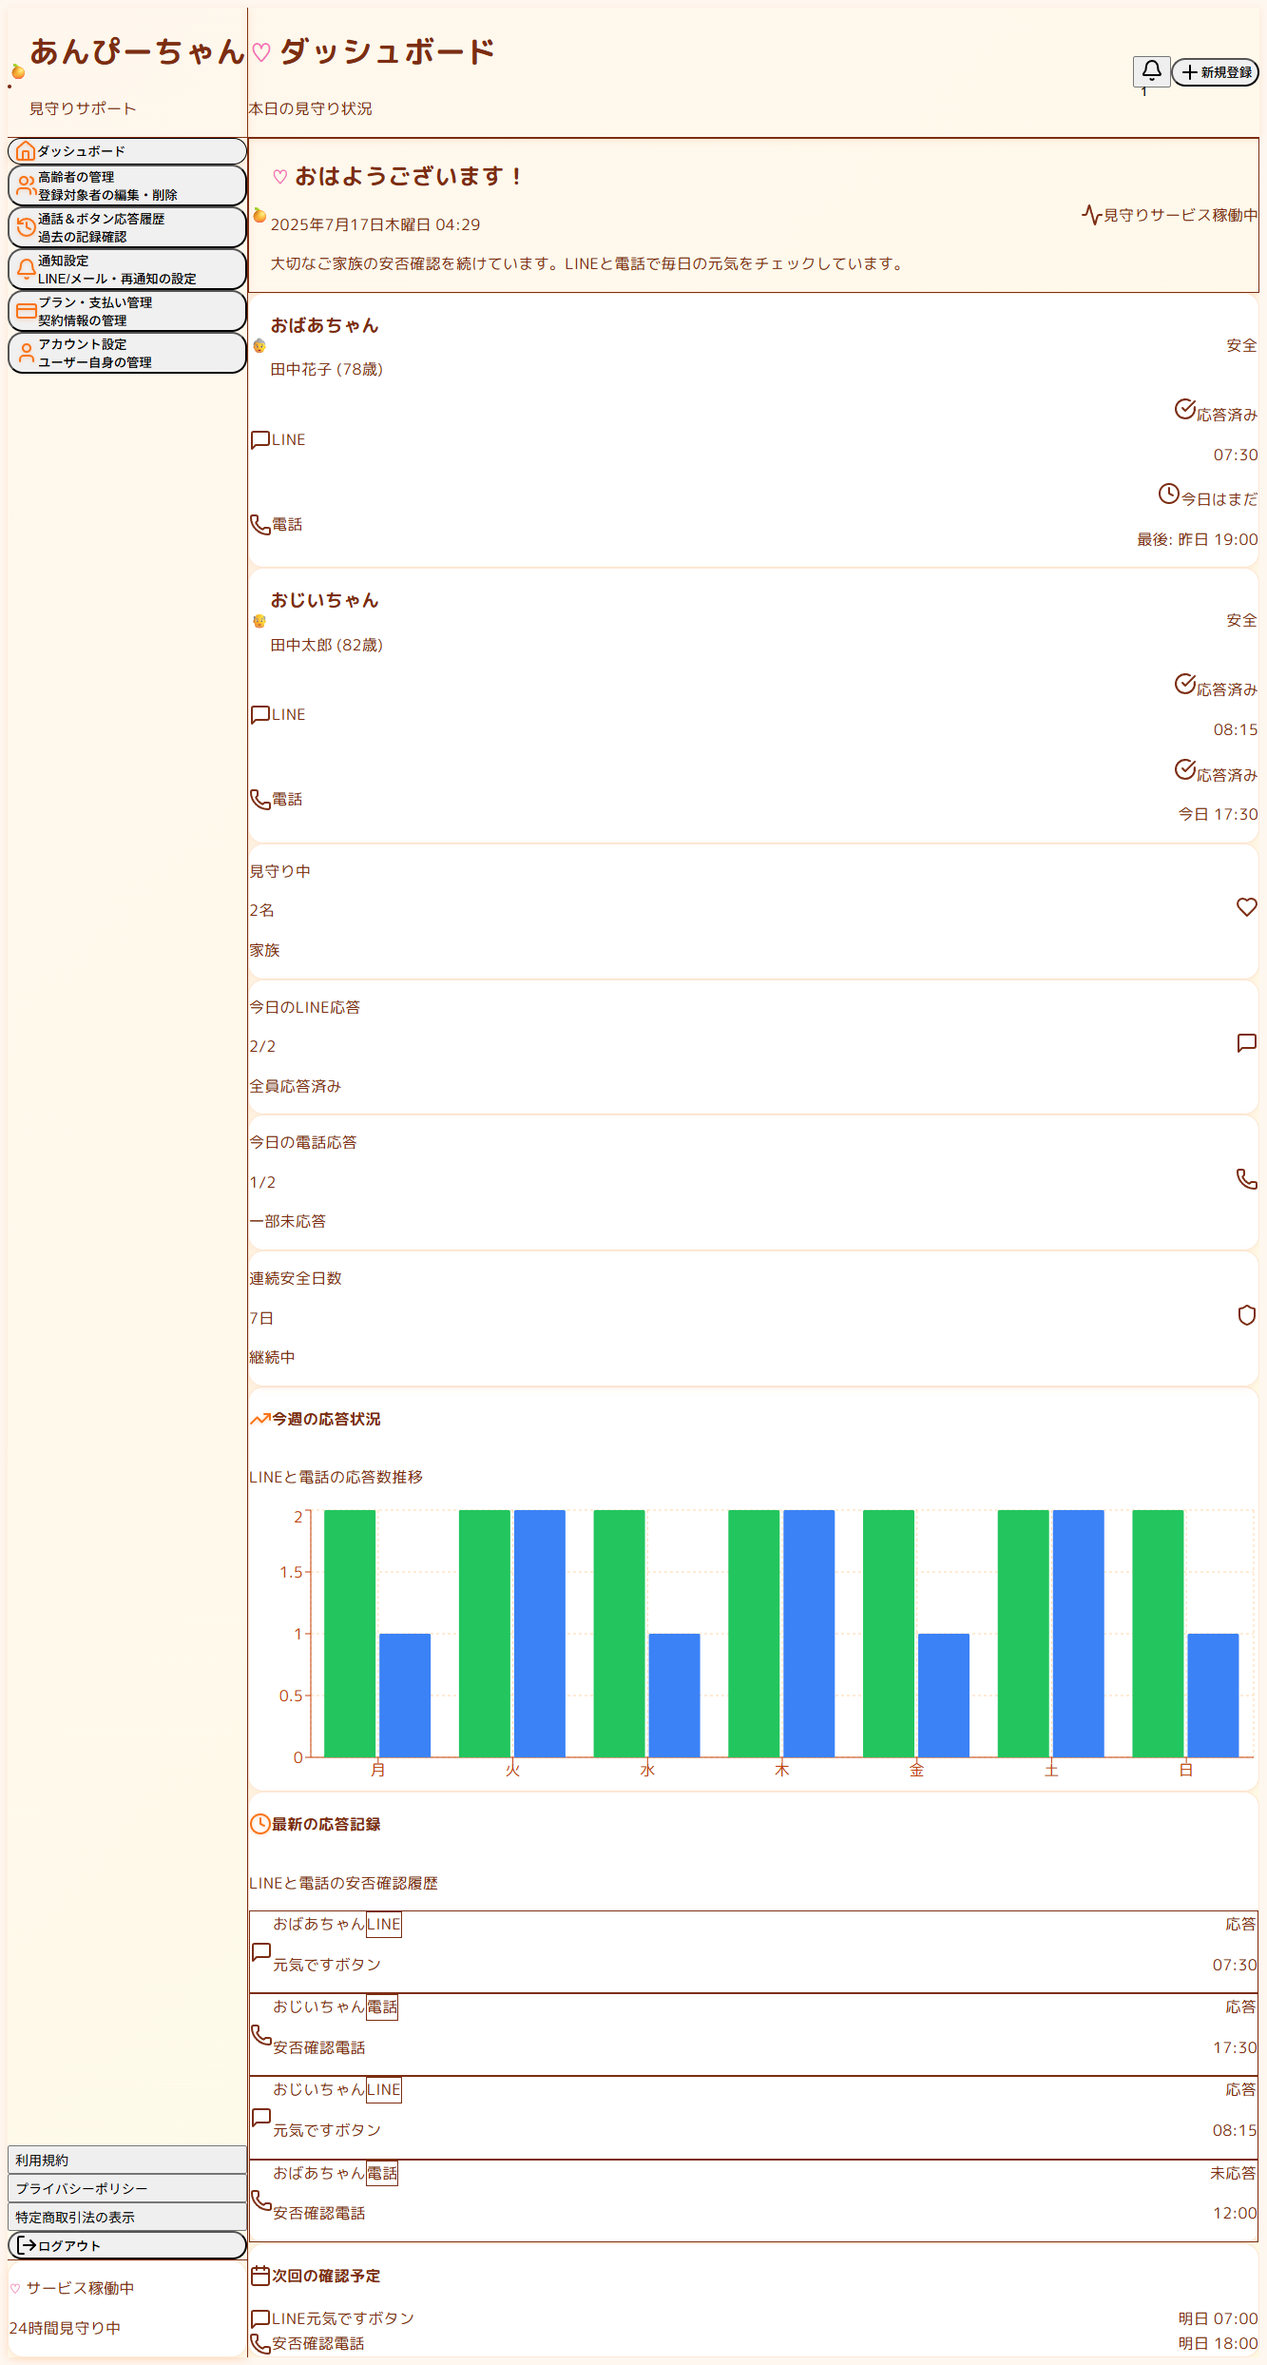
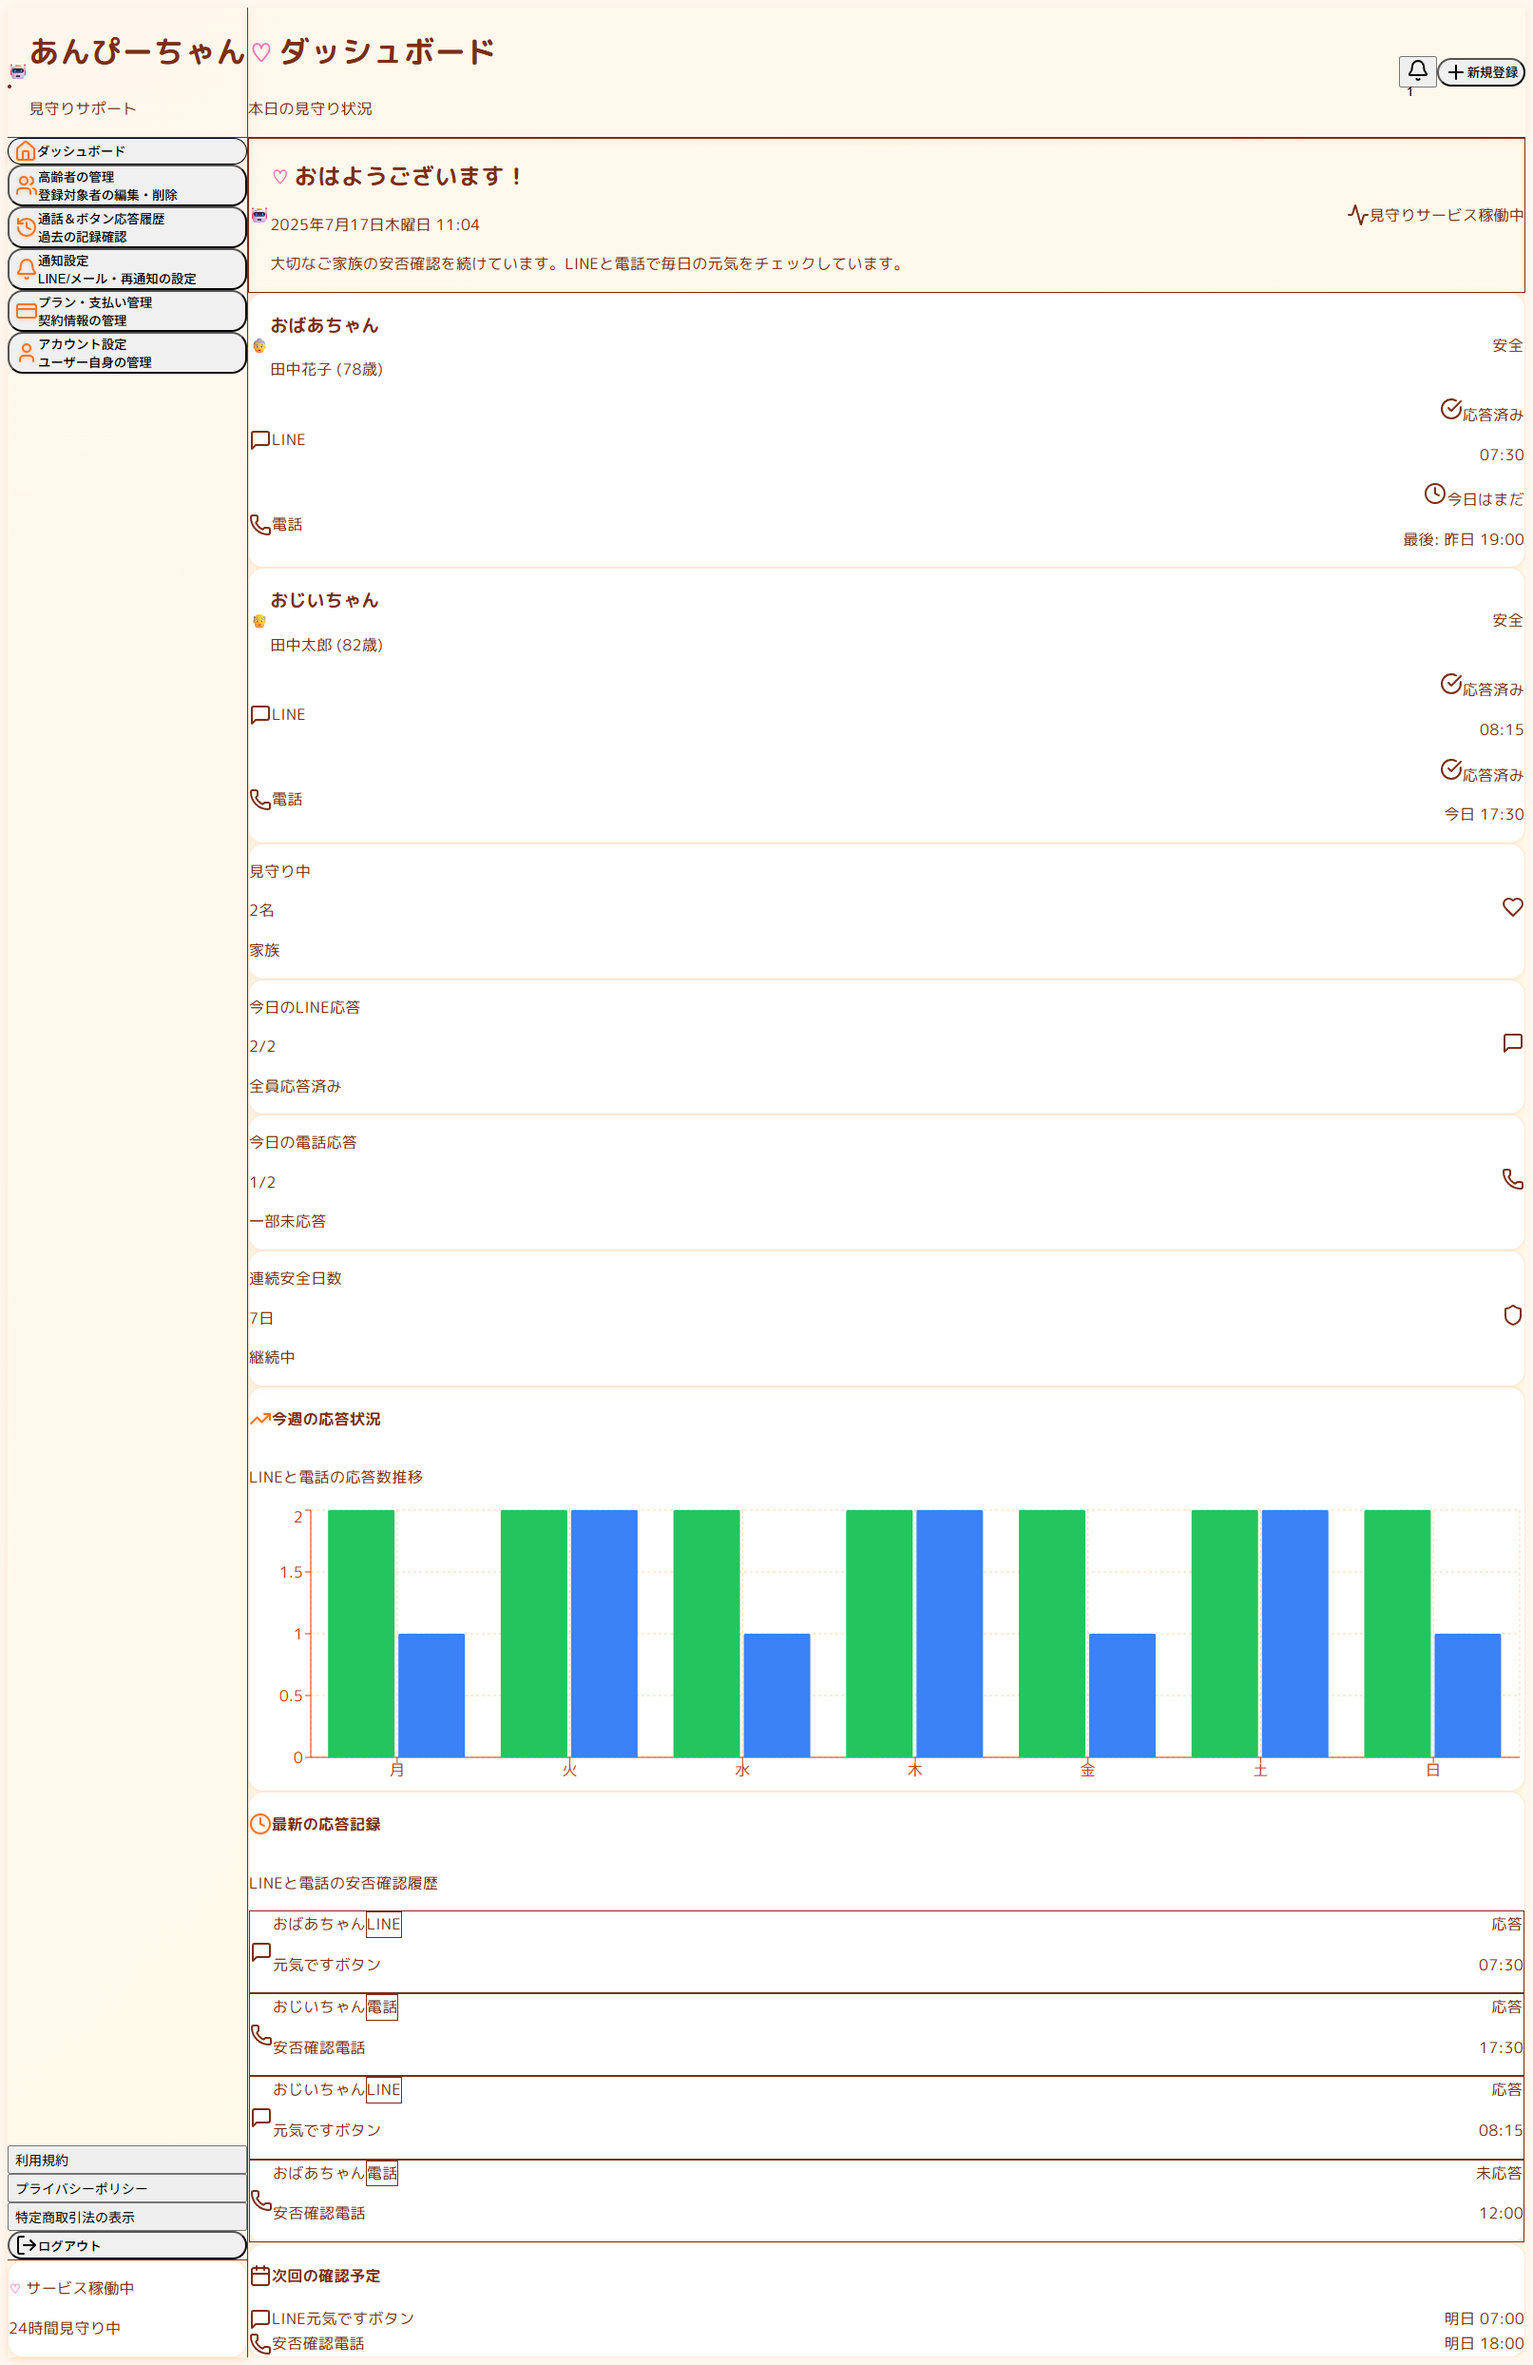
fix: レイアウト崩れを修正するためインラインスタイルを追加

diff --git a/frontend/src/components/Layout.tsx b/frontend/src/components/Layout.tsx
@@ -85,9 +85,9 @@ export function Layout({
   };
 
   return (
-    <div className="min-h-screen warm-gradient flex">
+    <div className="min-h-screen warm-gradient flex" style={{ display: 'flex', minHeight: '100vh' }}>
       {/* サイドバー */}
-      <div className="w-64 bg-white border-r border-orange-200 flex flex-col gentle-shadow">
+      <div className="w-64 bg-white border-r border-orange-200 flex flex-col gentle-shadow" style={{ width: '256px', display: 'flex', flexDirection: 'column', flexShrink: 0 }}>
         {/* ロゴ部分 */}
         <div className="p-6 border-b border-orange-200">
           <div className="flex items-center gap-3">
@@ -105,7 +105,7 @@ export function Layout({
         </div>
 
         {/* ナビゲーション */}
-        <nav className="flex-1 p-4">
+        <nav className="flex-1 p-4" style={{ flex: 1, padding: '16px' }}>
           <div className="space-y-2">
             {menuItems.map((item) => {
               const Icon = item.icon;
@@ -181,7 +181,7 @@ export function Layout({
       </div>
 
       {/* メインコンテンツ */}
-      <div className="flex-1 flex flex-col">
+      <div className="flex-1 flex flex-col" style={{ flex: 1, display: 'flex', flexDirection: 'column' }}>
         {/* トップヘッダー */}
         <header className="bg-white/80 backdrop-blur-sm border-b border-orange-200 px-6 py-4 gentle-shadow">
           <div className="flex items-center justify-between">
@@ -214,8 +214,8 @@ export function Layout({
         </header>
 
         {/* メインコンテンツエリア */}
-        <main className="flex-1 p-6 overflow-auto">
-          <div className="max-w-7xl mx-auto space-y-6">
+        <main className="flex-1 p-6 overflow-auto" style={{ flex: 1, padding: '24px', overflow: 'auto' }}>
+          <div className="max-w-7xl mx-auto space-y-6" style={{ maxWidth: '1280px', margin: '0 auto' }}>
             {children}
           </div>
         </main>
